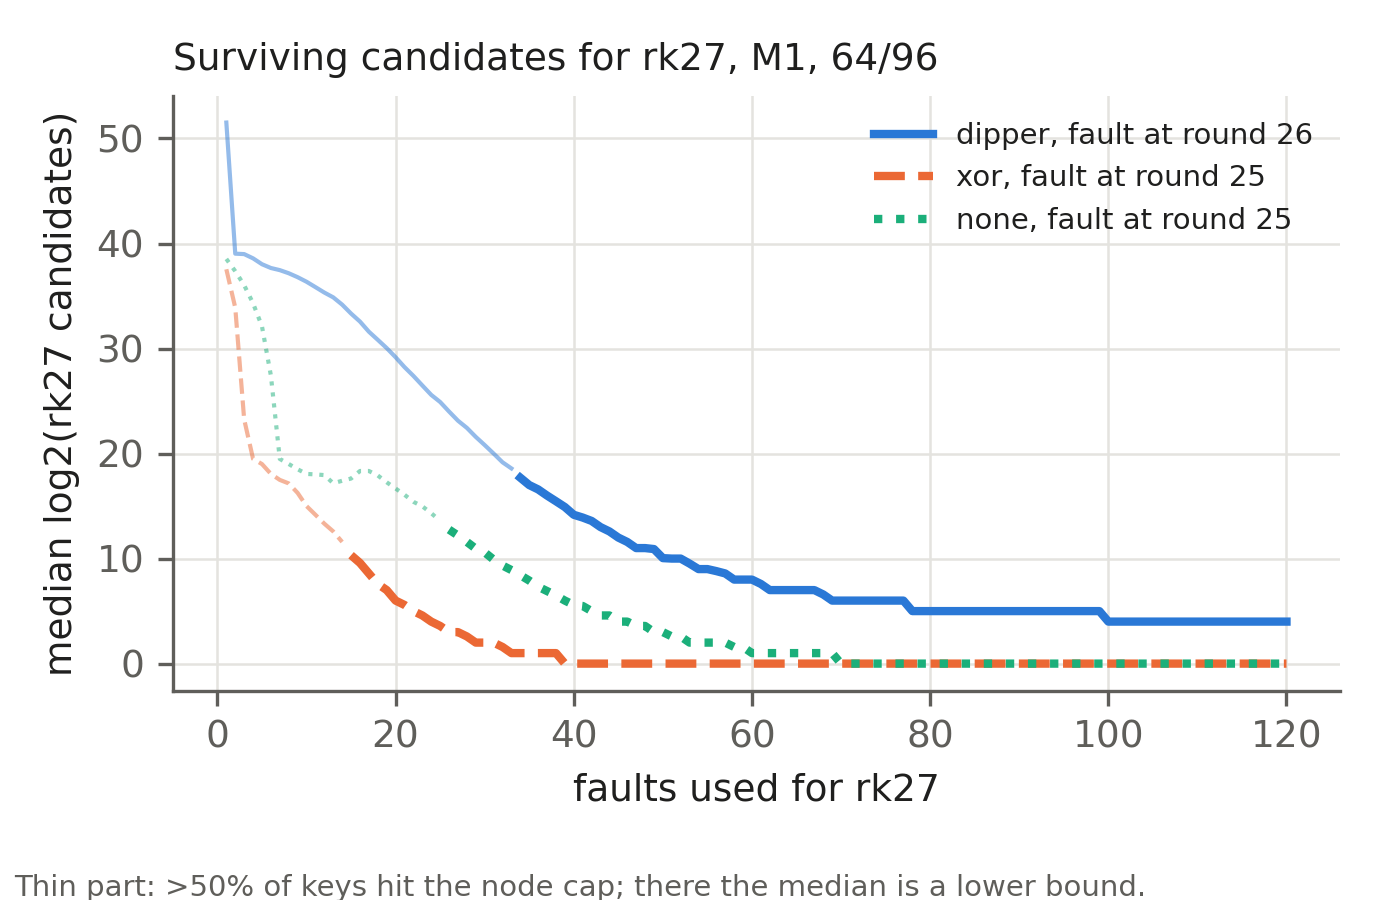
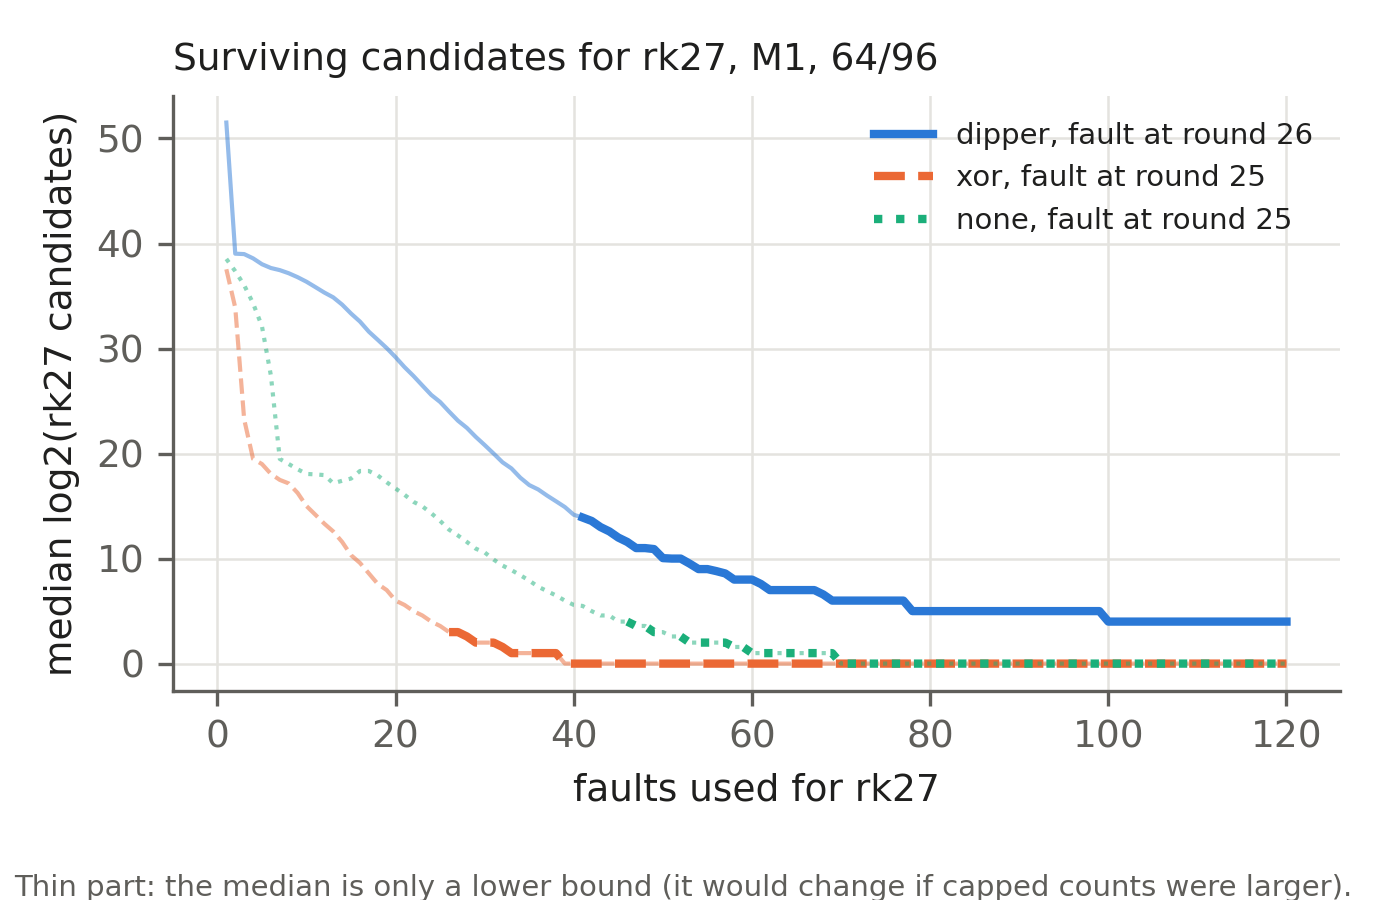
Figures: rigorous exactness test for survivor medians; clearer round diagram

diff --git a/analysis/figures.py b/analysis/figures.py
@@ -74,20 +74,23 @@ def fig2():
         fmax = 120
         xs, med, exact = [], [], []
         for f in range(fmax):
-            # a key that stopped earlier keeps its final count
-            vals, cap = [], 0
+            # a key that stopped earlier keeps its final count. Capped values are lower bounds:
+            # the median is exact only if it does not change when they are replaced by +inf.
+            lo, hi = [], []
             for s in st:
                 k = min(f, len(s["log2_surv"]) - 1)
-                vals.append(s["log2_surv"][k]); cap += s["capped"][k]
-            xs.append(f + 1); med.append(np.median(vals)); exact.append(cap / len(st) <= 0.5)
+                val = s["log2_surv"][k]
+                lo.append(val); hi.append(np.inf if s["capped"][k] else val)
+            m_lo, m_hi = np.median(lo), np.median(hi)
+            xs.append(f + 1); med.append(m_lo); exact.append(m_lo == m_hi)
         xs, med, exact = np.array(xs), np.array(med), np.array(exact)
+        ax.plot(xs, med, color=COL[v], ls=LS[v], lw=1, alpha=0.5)
         ax.plot(xs, np.where(exact, med, np.nan), color=COL[v], ls=LS[v], lw=2, label=label)
-        ax.plot(xs, np.where(~exact, med, np.nan), color=COL[v], ls=LS[v], lw=1, alpha=0.5)
     ax.legend(loc="upper right", fontsize=7, frameon=False, labelcolor=TEXT)
     ax.set_xlabel("faults used for rk27")
     ax.set_ylabel("median log2(rk27 candidates)")
     ax.set_title("Surviving candidates for rk27, M1, 64/96", color=TEXT, fontsize=9, loc="left")
-    fig.text(0.01, 0.005, "Thin part: >50% of keys hit the node cap; there the median is a lower bound.",
+    fig.text(0.01, 0.005, "Thin part: the median is only a lower bound (it would change if capped counts were larger).",
              color=MUTED, fontsize=7)
     fig.tight_layout(rect=(0, 0.05, 1, 1))
     fig.savefig(f"{OUT}/fig2_survivors.png")
@@ -118,40 +121,41 @@ def _arrow(ax, x0, y0, x1, y1, color=MUTED, lw=1.0):
 
 def fig_round():
     """Dipper round function with the fault point (diagram, no data)."""
-    fig, ax = plt.subplots(figsize=(6.4, 4.2))
-    ax.set_xlim(0, 10); ax.set_ylim(0, 10); ax.axis("off")
-    ax.grid(False)
-    _box(ax, 5, 9.4, 4.2, 0.6, r"$x_i$ (64 bits)")
-    _arrow(ax, 5, 9.1, 5, 8.55)
-    ax.text(5.15, 8.85, r"$\oplus\ rk_i$", fontsize=8, color=TEXT, va="center")
-    _box(ax, 5, 8.25, 4.2, 0.55, r"$y_i = x_i \oplus rk_i$")
-    ax.annotate("fault injected here\n(M1 nibble / M2 bit / M3 byte)", xy=(7.15, 8.25), xytext=(7.6, 8.9),
-                fontsize=7, color=COL["xor"], arrowprops=dict(arrowstyle="-|>", color=COL["xor"], lw=1))
-    _arrow(ax, 5, 7.97, 5, 7.45)
-    _box(ax, 5, 7.15, 8.6, 0.55, "S-layer: GIFT S-box on all 16 nibbles", fc="#eef4fc")
-    xs = [1.6, 3.85, 6.15, 8.4]
-    names = ["A (63..48)", "B (47..32)", "C (31..16)", "D (15..0)"]
-    rots = [1, 4, 7, 11]
-    for x, nm, r in zip(xs, names, rots):
-        _arrow(ax, x, 6.87, x, 6.35)
-        _box(ax, x, 6.05, 1.9, 0.55, nm, fs=7)
-        _arrow(ax, x, 5.77, x, 5.25)
-        _box(ax, x, 4.95, 1.4, 0.55, rf"$\lll {r}$", fs=8)
-    # modular additions
-    for xa, xb, lab in [(xs[0], xs[1], r"$A_2=A_1\boxplus B_1$"), (xs[2], xs[3], r"$C_2=C_1\boxplus D_1$")]:
-        _arrow(ax, xa, 4.67, xa, 3.9)                                   # A1 / C1 into the adder
-        _arrow(ax, xb, 4.67, xb, 2.35)                                  # B1 / D1 straight to P
-        _arrow(ax, xb, 4.2, xa + 0.32, 3.68, color=COL["dipper"])      # B1 / D1 branch into the adder
-        ax.add_patch(plt.Circle((xa, 3.6), 0.3, fc="#ffffff", ec=COL["dipper"], lw=1.4))
-        ax.text(xa, 3.6, r"$\boxplus$", ha="center", va="center", fontsize=10, color=COL["dipper"])
-        ax.text(xa - 0.4, 2.95, lab, ha="right", fontsize=7, color=TEXT)
-        _arrow(ax, xa, 3.3, xa, 2.35)
-    _box(ax, 5, 2.05, 8.6, 0.55, "P: GIFT-64 bit permutation", fc="#eef4fc")
-    _arrow(ax, 5, 1.77, 5, 1.2)
-    _box(ax, 5, 0.9, 4.2, 0.55, r"$x_{i+1} = F(y_i)$,  $F = P\circ\mathrm{ARX}\circ S$")
-    ax.text(0.05, 0.1, "xor variant: replace each addition by XOR;  none variant: drop the addition (analysis only)",
-            fontsize=6.5, color=MUTED)
-    fig.tight_layout()
+    fig, ax = plt.subplots(figsize=(5.6, 5.2))
+    ax.set_xlim(0, 10); ax.set_ylim(0, 10.6); ax.axis("off"); ax.grid(False)
+    fs = 10.5
+    blue_fill = "#eef4fc"
+    xs = [1.45, 3.8, 6.2, 8.55]
+    # input and key addition
+    _box(ax, 5, 10.1, 3.6, 0.7, r"$x_i$", fs=fs + 1)
+    _arrow(ax, 5, 9.75, 5, 9.15)
+    ax.add_patch(plt.Circle((5, 8.85), 0.3, fc="#ffffff", ec=MUTED, lw=1.2))
+    ax.text(5, 8.85, r"$\oplus$", ha="center", va="center", fontsize=fs + 3, color=TEXT)
+    _box(ax, 8.4, 8.85, 1.5, 0.6, r"$rk_i$", fs=fs)
+    _arrow(ax, 7.65, 8.85, 5.3, 8.85)
+    _arrow(ax, 5, 8.55, 5, 8.0)
+    # fault marker on y_i
+    ax.plot([5], [8.25], marker="X", ms=11, color=COL["xor"], mec="#ffffff", mew=0.8, zorder=5)
+    ax.text(4.55, 8.25, r"$y_i$  (fault)", ha="right", va="center", fontsize=fs - 0.5, color=COL["xor"])
+    _box(ax, 5, 7.65, 9.0, 0.7, "S: GIFT S-box on all 16 nibbles", fc=blue_fill, fs=fs)
+    for x, nm, r in zip(xs, ["A", "B", "C", "D"], [1, 4, 7, 11]):
+        _arrow(ax, x, 7.3, x, 6.75)
+        _box(ax, x, 6.4, 1.7, 0.7, rf"{nm}  $\lll {r}$", fs=fs)
+    for xa, xb in [(xs[0], xs[1]), (xs[2], xs[3])]:
+        _arrow(ax, xa, 6.05, xa, 5.05)
+        _arrow(ax, xb, 6.05, xb, 2.35)
+        _arrow(ax, xb, 5.55, xa + 0.36, 4.82, color=COL["dipper"], lw=1.3)
+        ax.add_patch(plt.Circle((xa, 4.7), 0.35, fc="#ffffff", ec=COL["dipper"], lw=1.6))
+        ax.text(xa, 4.7, r"$\boxplus$", ha="center", va="center", fontsize=fs + 4, color=COL["dipper"])
+        _arrow(ax, xa, 4.35, xa, 2.35)
+    ax.text(xs[0] - 0.15, 3.5, r"$A_2$", ha="right", va="center", fontsize=fs, color=TEXT)
+    ax.text(xs[2] - 0.15, 3.5, r"$C_2$", ha="right", va="center", fontsize=fs, color=TEXT)
+    ax.text(xs[1] + 0.15, 3.5, r"$B_1$", ha="left", va="center", fontsize=fs, color=TEXT)
+    ax.text(xs[3] + 0.15, 3.5, r"$D_1$", ha="left", va="center", fontsize=fs, color=TEXT)
+    _box(ax, 5, 2.0, 9.0, 0.7, "P: GIFT-64 bit permutation", fc=blue_fill, fs=fs)
+    _arrow(ax, 5, 1.65, 5, 1.1)
+    _box(ax, 5, 0.75, 3.6, 0.7, r"$x_{i+1}$", fs=fs + 1)
+    fig.tight_layout(pad=0.2)
     fig.savefig(f"{OUT}/fig3_round.png")
     plt.close(fig)
 
